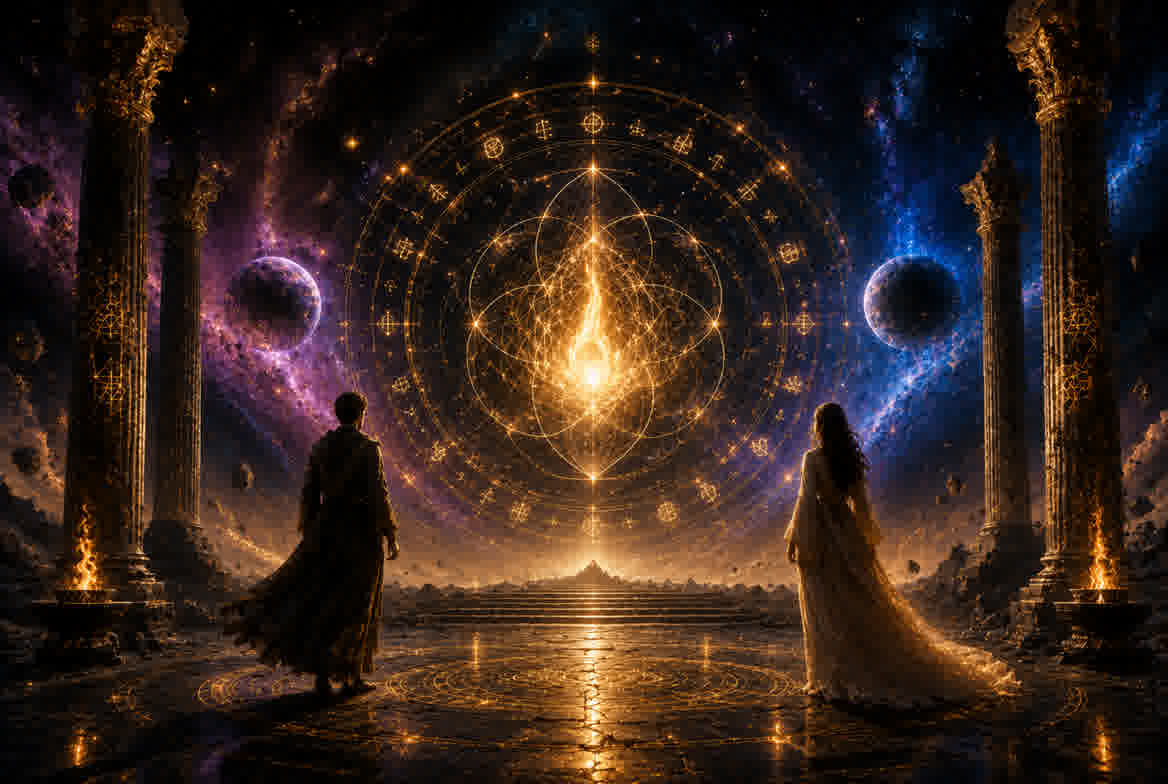
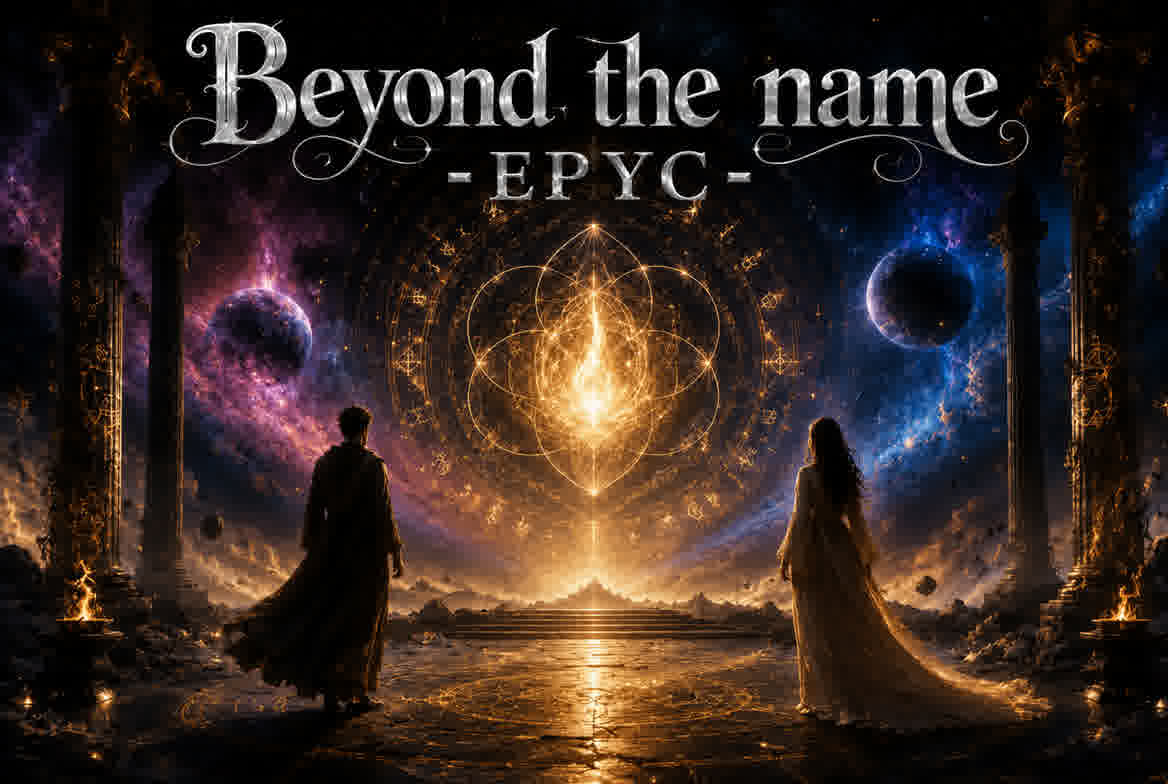
0
0

diff --git a/mas_alla-del-nombre/index2.html b/mas_alla-del-nombre/index2.html
@@ -1,0 +1,88 @@
+<html>
+<!DOCTYPE html>
+<html lang="es">
+<head>
+    <meta charset="UTF-8">
+    <meta name="viewport" content="width=device-width, initial-scale=1.0">
+    <title>135- Más alla del Nombre EPICO -(Beyond the Name - EPYC -)</title>
+
+    <!-- Open Graph -->
+    <meta property="og:type" content="video.other">
+    <meta property="og:site_name" content="Google Drive">
+    <meta property="og:title" content="135- Más alla del Nombre EPICO -(Beyond the Name - EPYC -)">
+    <meta property="og:description" content="Haz clic para ver o escuchar la obra completa.">
+
+    <meta property="og:image" content="https://lucksys.github.io/canciones/mas_alla-del-nombre/portada2.jpg">
+    <meta property="og:image:secure_url" content="https://lucksys.github.io/canciones/mas_alla-del-nombre/portada2.jpg">
+    <meta property="og:image:type" content="image/jpeg">
+    <meta property="og:image:width" content="1168">
+    <meta property="og:image:height" content="784">
+
+    <!-- Twitter -->
+    <meta name="twitter:card" content="summary_large_image">
+    <meta name="twitter:title" content="135- Más alla del Nombre EPICO -(Beyond the Name - EPYC -)">
+    <meta name="twitter:description" content="Haz clic para ver o escuchar la obra completa.">
+    <meta name="twitter:image" content="https://lucksys.github.io/canciones/mas_alla-del-nombre/portada2.jpg">
+
+    <script>
+        const medias = {
+            k: "https://drive.google.com/file/d/1UAyIpsW8ZP6YW5AsBx2Ye5qJZ6zPF1EU/view",
+            p: "https://drive.google.com/file/d/1UAyIpsW8ZP6YW5AsBx2Ye5qJZ6zPF1EU/view",
+            a: "https://drive.google.com/file/d/143KBgtgR6zh_wY09FoaQdsd4xsXw3Icr/view"
+        };
+
+        const params = new URLSearchParams(window.location.search);
+        const tipo = params.get("t");
+
+        // Video por defecto
+        const destino = medias[tipo] || medias.k;
+
+        window.location.replace(destino);
+    </script>
+
+    <style>
+        body {
+            font-family: sans-serif;
+            text-align: center;
+            padding-top: 100px;
+            background-color: #1a1a1a;
+            color: #ffffff;
+        }
+
+        .loader {
+            border: 4px solid #333;
+            border-top: 4px solid #00ffcc;
+            border-radius: 50%;
+            width: 40px;
+            height: 40px;
+            animation: spin 1s linear infinite;
+            margin: 20px auto;
+        }
+
+        @keyframes spin {
+            from { transform: rotate(0deg); }
+            to   { transform: rotate(360deg); }
+        }
+
+        a {
+            color: #00ffcc;
+            text-decoration: none;
+            font-weight: bold;
+        }
+    </style>
+</head>
+<body>
+
+    <h2>Redirigiendo...</h2>
+
+    <div class="loader"></div>
+
+    <p>
+        Si la redirección no funciona,
+        <a href="https://drive.google.com/file/d/1UAyIpsW8ZP6YW5AsBx2Ye5qJZ6zPF1EU/view">
+            haz clic aquí
+        </a>.
+    </p>
+
+</body>
+</html>
